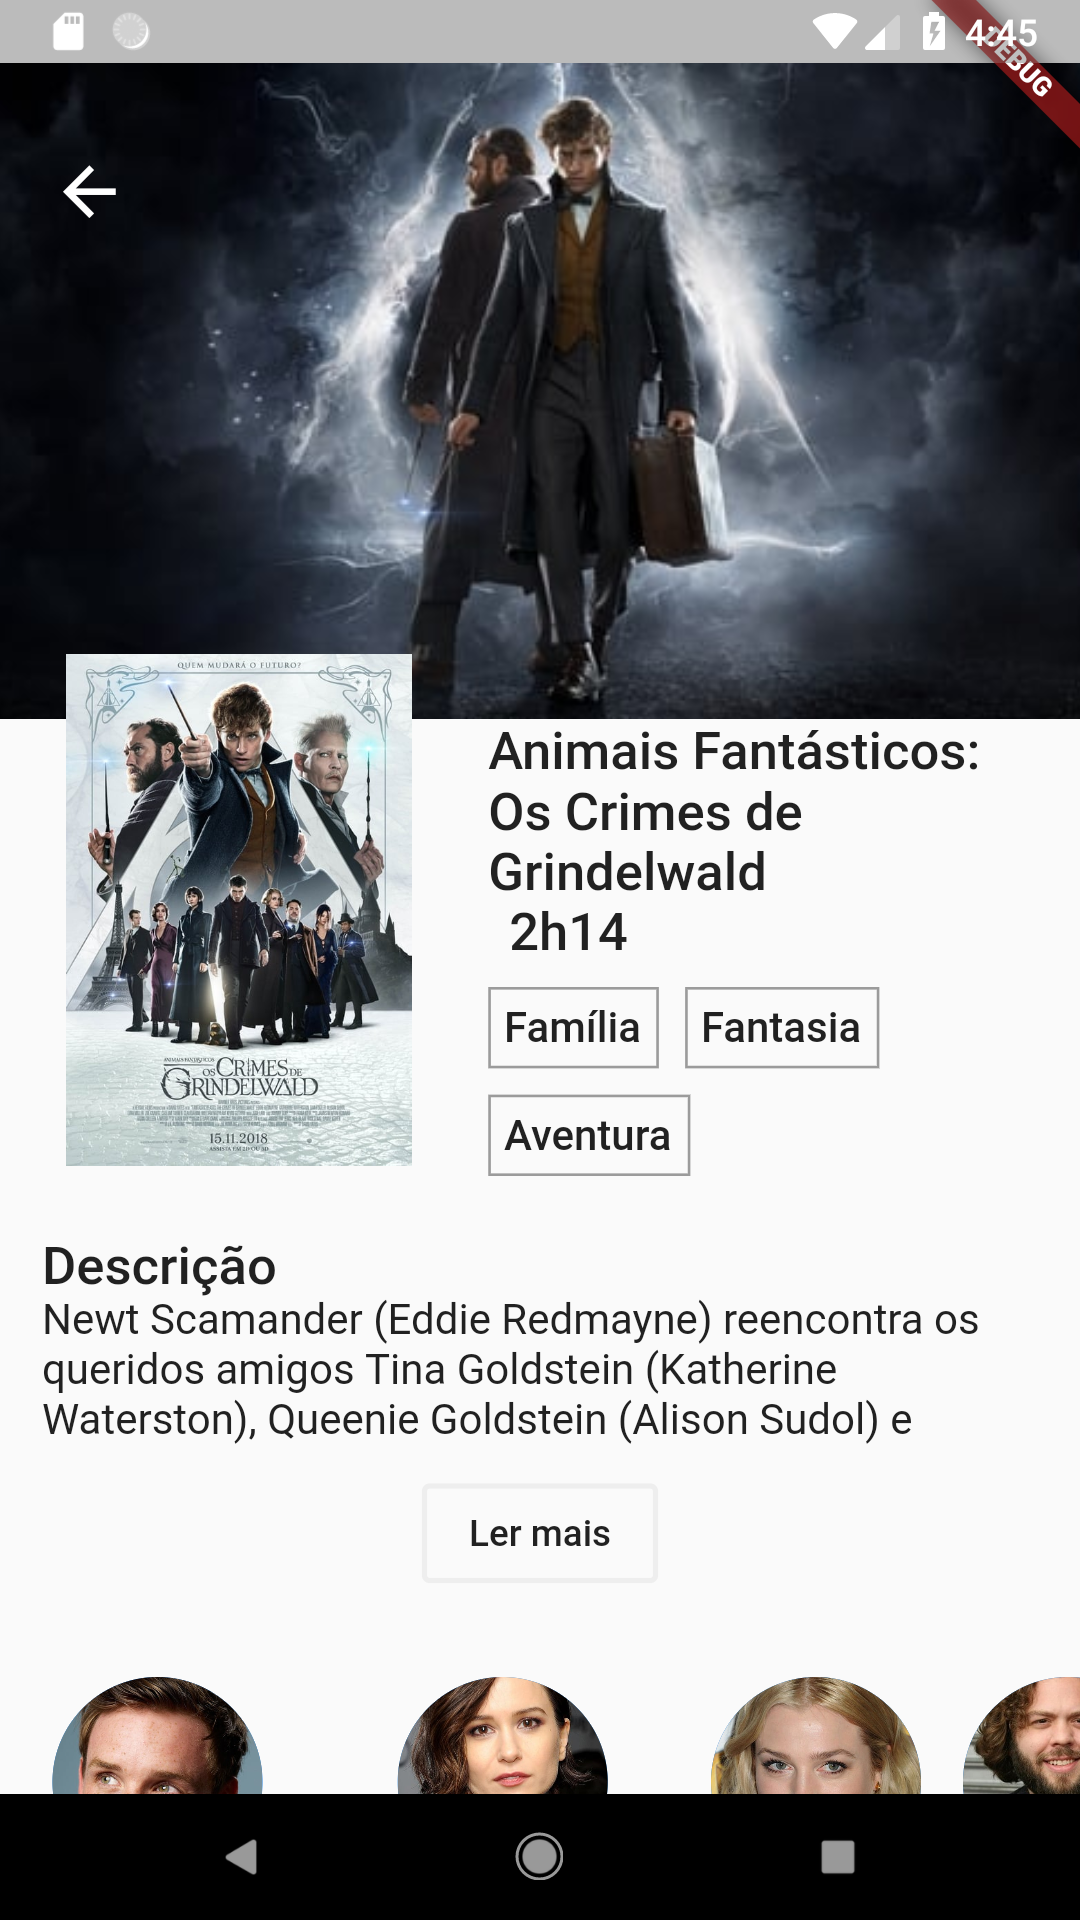
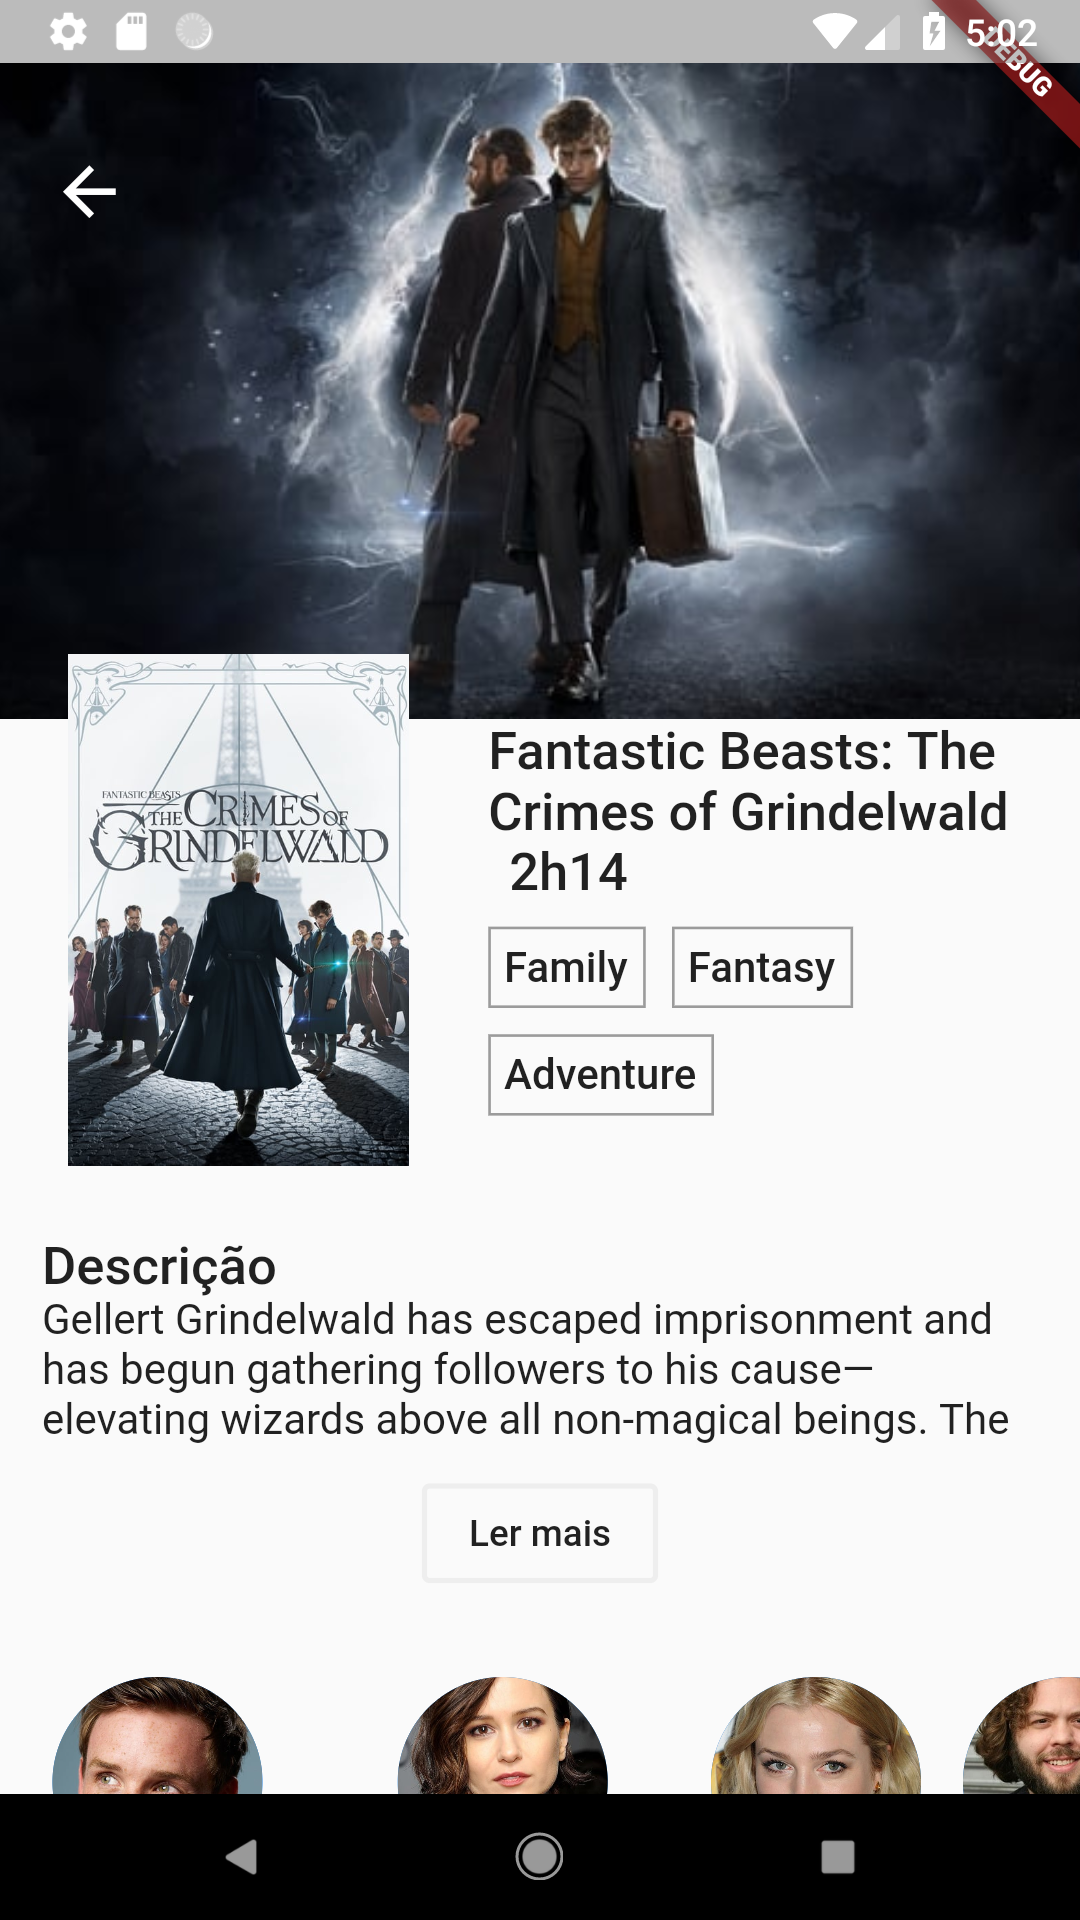
Changed language from pt-BR to en and updated screenshots

diff --git a/lib/network/movie_network.dart b/lib/network/movie_network.dart
@@ -5,7 +5,7 @@ import 'package:cinema/constants.dart';
 
 abstract class MovieNetwork {
   static Future<dynamic> listPopularMovie() async {
-    String url = 'https://api.themoviedb.org/3/movie/popular?api_key=$apiKey&language=pt-BR';
+    String url = 'https://api.themoviedb.org/3/movie/popular?api_key=$apiKey';
     var res = await http.get(url, headers: { 'Accept': 'application/json' }).catchError((error) {
       print('error: ${error.toString()}');
     });
@@ -13,7 +13,7 @@ abstract class MovieNetwork {
   }
 
   static Future<Map> getMovieDetails(int movieId) async {
-    String url = 'https://api.themoviedb.org/3/movie/$movieId?api_key=$apiKey&language=pt-BR&append_to_response=casts&include_image_language=pt-BR,en';
+    String url = 'https://api.themoviedb.org/3/movie/$movieId?api_key=$apiKey&append_to_response=casts';
 
     var res = await http.get(url, headers: {
       'Accept': 'application/json'
